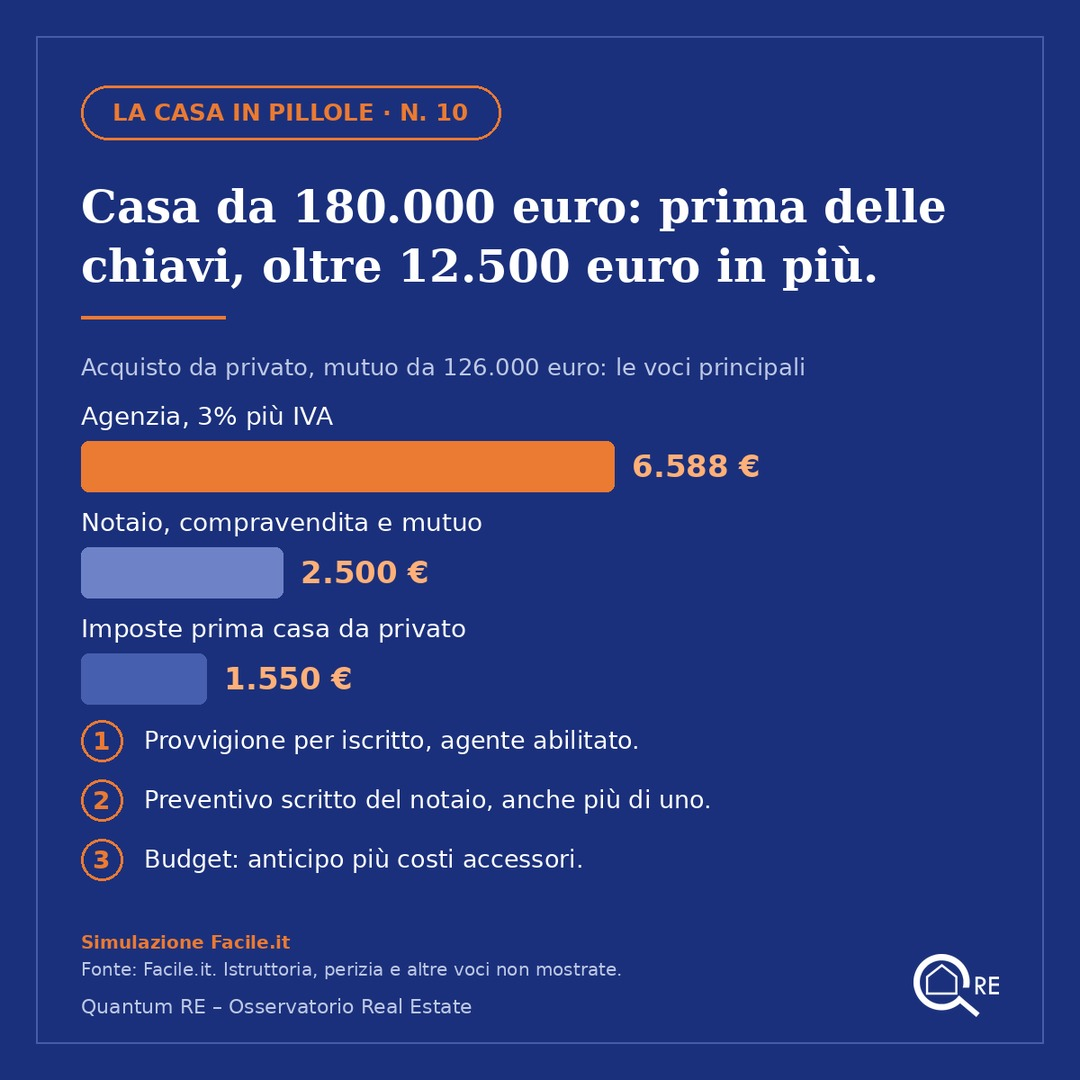
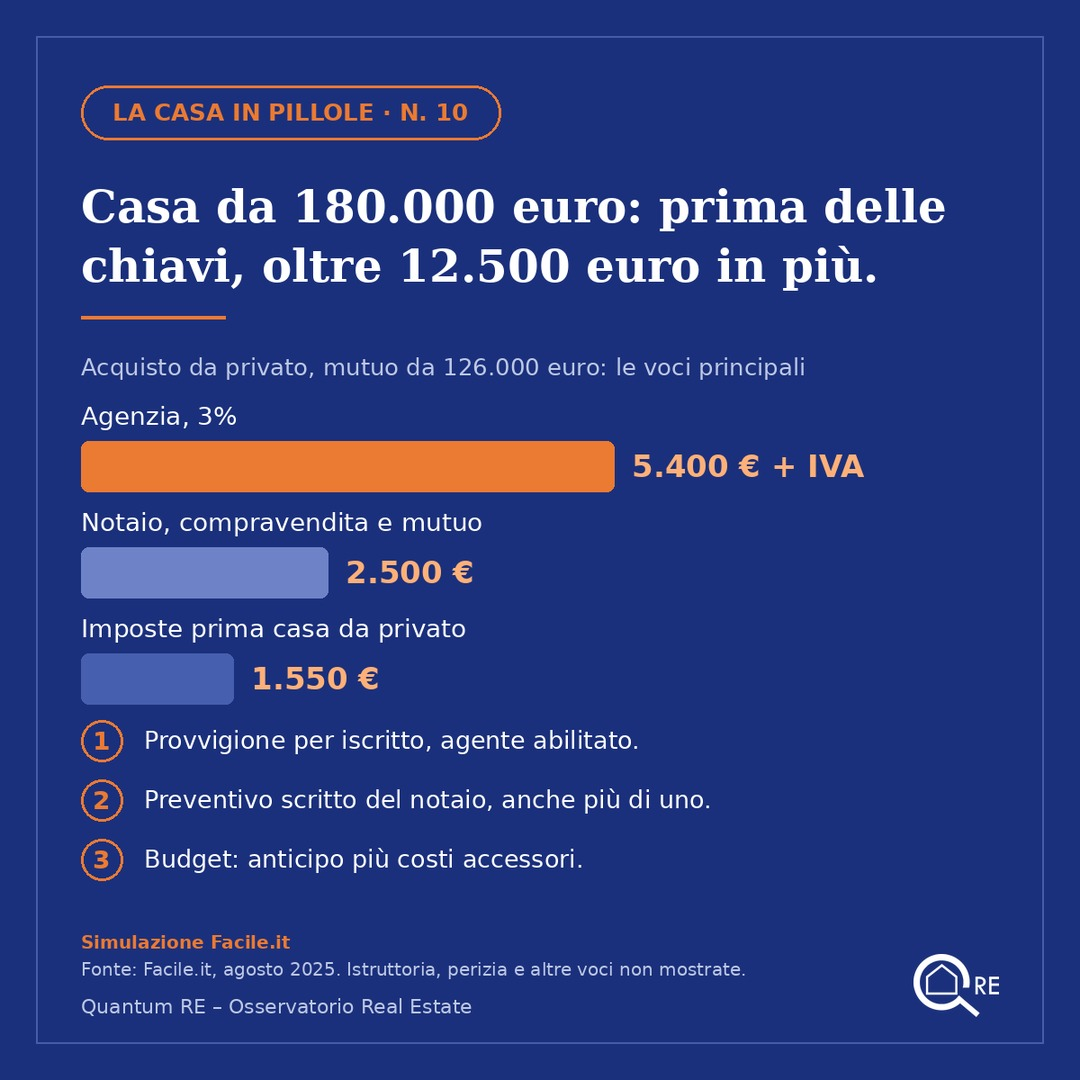
Pillola 10: immagine con 5.400 € + IVA e fonte Facile.it datata agosto 2025
Claude-Session: https://claude.ai/code/session_01W57i8fPrmp6YpPzazmBnCu

diff --git a/funnel/scripts/immagini_pillole.py b/funnel/scripts/immagini_pillole.py
@@ -159,11 +159,11 @@ im.save(f"{OUT}/pillola-9-perizia-asta{SUFFIX}.png")
 # Pillola 10
 im, d, y = base(10, "Casa da 180.000 euro: prima delle chiavi, oltre 12.500 euro in più.")
 d.text((90, y), "Acquisto da privato, mutuo da 126.000 euro: le voci principali", font=F(SANS, 26), fill=MUTED); y += 54
-y = bars(d, y, [("Agenzia, 3% più IVA", 6588, GOLD, "6.588 €"),
+y = bars(d, y, [("Agenzia, 3%", 5400, GOLD, "5.400 € + IVA"),
                 ("Notaio, compravendita e mutuo", 2500, DIM2, "2.500 €"),
-                ("Imposte prima casa da privato", 1550, DIM, "1.550 €")], 6588 * 1.25, step=74)
+                ("Imposte prima casa da privato", 1550, DIM, "1.550 €")], 5400 * 1.25, step=74)
 y = checklist(d, y, ["Provvigione per iscritto, agente abilitato.", "Preventivo scritto del notaio, anche più di uno.", "Budget: anticipo più costi accessori."])
-footer(im, d, "Fonte: Facile.it. Istruttoria, perizia e altre voci non mostrate.", label="Simulazione Facile.it")
+footer(im, d, "Fonte: Facile.it, agosto 2025. Istruttoria, perizia e altre voci non mostrate.", label="Simulazione Facile.it")
 im.save(f"{OUT}/pillola-10-costi-accessori{SUFFIX}.png")
 
 # Pillola 11
